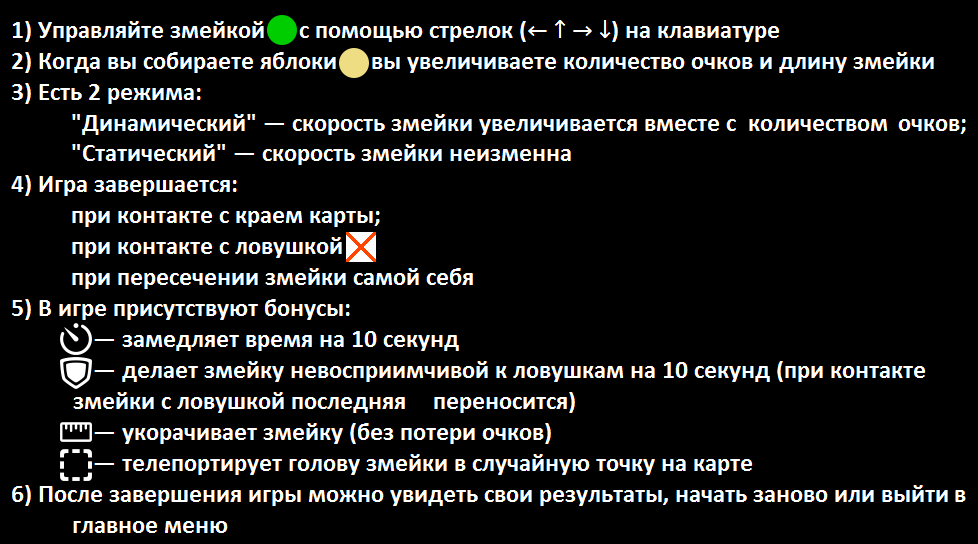
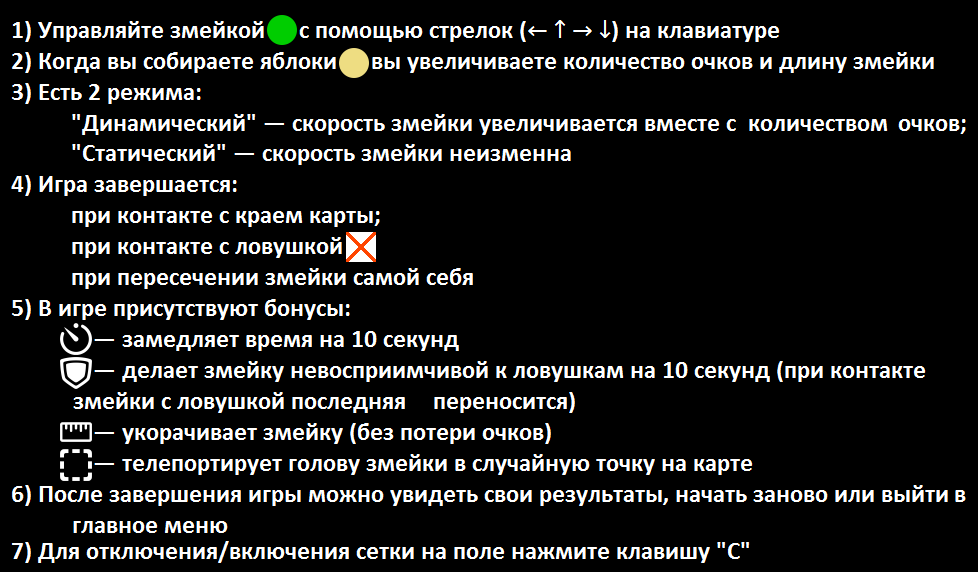
V 1.1

Changed region(s): [[0.0, 0.0312, 1.0, 1.0]]

diff --git a/ssp.py b/ssp.py
@@ -1,16 +1,28 @@
 from random import randint
 
-def moves(): #ход игрока и компьютера
+def moves():  # Ход игрока и компьютера
 	global compMove, playerMove, res
+
 	compMove = randint(0, 2)
-	inp = input("Компьютер сделал свой ход. Сделайте и вы (введите 'камень'/'ножницы'/'бумага') ").lower()
-	while not (inp in ["камень", "ножницы", "бумага"]): #проверка на корректность ввода
-		inp = input("Неправильный ввод. Повторите пожалуйста (введите 'камень'/'ножницы'/'бумага') ").lower()
+	st = "Компьютер сделал свой ход. Сделайте и вы (введите 'К'/'Н'/'Б') "
+	inp = input(st).lower()
+
+	flag = True
+	st = "Неправильный ввод. Повторите пожалуйста (введите 'К'/'Н'/'Б') "
+	while True:  # Проверка на корректность ввода
+		for i in answers.keys():
+			if inp in answers[i] and i != "да":
+				inp = i
+				flag = False
+		if not flag: break
+		inp = input(st).lower()
+
 	playerMove = playerVal.index(inp)
 	res = ""
 
-def findWinner(): #поиск победителя
+def findWinner():  # Поиск победителя
 	global res, compPoints, playerPoints
+
 	if playerMove == compMove:
 		playerPoints += 1
 		res = "очко игроку"
@@ -20,24 +32,46 @@ def findWinner(): #поиск победителя
 		compPoints += 1
 		res = "очко компьютеру"
 
-def checkEndGame(): #проверка на окончание игры
+def checkEndGame():  # Проверка на окончание игры
 	global compPoints, playerPoints, inGame
+
 	if compPoints == 3:
 		print("победил компьютер")
 		compPoints = playerPoints = 0
-		inGame = input("начать заново? (да/нет) ").lower() in ["да", "д", "y", "yes"]
+		inGame = input("начать заново? (д/н) ").lower() in answers["да"]
 	elif playerPoints == 3:
 		print("победил игрок")
 		compPoints = playerPoints = 0
-		inGame = input("начать заново? (да/нет) ").lower() in ["да", "д", "y", "yes"]
+		inGame = input("начать заново? (д/н) ").lower() in answers["да"]
 	else:
 		print(res)
 
-compPoints = 0 #очки компьютера
-playerPoints = 0 #очки игрока
+def rules():
+	f = open("rules.txt", "r")
+	rules = f.readline()
+	rules += f.readline()
+	print(rules)
+
+def drawRules():
+	ans = input("не хотите ли вы ознакомиться с правилами игры? (д/н) ")
+	ans = ans.lower()
+	isDraw = ans in answers["да"]
+	if isDraw:
+		rules()
+
+compPoints = 0  # Очки компьютера
+playerPoints = 0  # Очки игрока
 compVal = ["камень", "ножницы", "бумага"]
 playerVal = ["бумага", "камень", "ножницы"]
 inGame = True
+answers = {"камень": ["к", "r", "камень"],
+	"ножницы": ["н", "y", "ножницы"],
+	"бумага": ["б", ",", "<", "бумага"],
+	"да": ["да", "д", "l"]
+}
+
+drawRules()
+
 while inGame:
 	moves()
 	findWinner()

diff --git a/main.py b/main.py
@@ -31,14 +31,15 @@ def drawSnake(): #отрисовка змейки
 			outline=snake.color, fill=snake.color)
 
 def onKeyPressed(event):  # Отслеживание нажатий клавиш
+	global isCells
 	code = event.keycode
 	newSpeedX = 0
 	newSpeedY = 0
 
 	if code == 112:
 		help()
-	elif code == 116:
-		death()
+	elif code == 67: # Переключение отображения сетки
+		isCells = not isCells
 	elif code == 38 and snake.drc != "bottom":  # Вверх
 		snake.newDrc = "top"
 		newSpeedY = -1
@@ -171,7 +172,7 @@ def loop():
 
 	# Отрисовка элементов
 	drawBackground()
-	createMap()
+	if isCells: createMap()
 	drawApples()
 	drawBonuses()
 	drawSnake()
@@ -219,7 +220,7 @@ def start(mod, event):  #З апуск игры
 
 def beforeGame():  # Обнуление переменных
 	global points, pasCells, snake, startTime, items, inGame
-	global startBgAnim, background
+	global startBgAnim, background, isCells
 
 	background = "background.png"
 	startTime = time.time()
@@ -228,6 +229,7 @@ def beforeGame():  # Обнуление переменных
 			Const.WINDOW_H//(2*Const.CELL_SIZE), Const.START_SPEED)
 	items = i.Items(Const.APPLES_COUNT, Const.TRAPS_COUNT,
 			Const.BONUSES_COUNT, snake)
+	isCells = True
 	inGame = True
 	points = 0
 	pasCells = 0

diff --git a/RuleWindow.py b/RuleWindow.py
@@ -4,7 +4,7 @@ class RuleWindow(Toplevel):  # Окно с правилами игры
     def __init__(self, parent):
         super().__init__(parent)
 
-        self.geometry('978x544')
+        self.geometry('978x572')
         self.title("Правила игры")
         self.resizable(width=False, height=False)
 

diff --git a/EndGameWindow.py b/EndGameWindow.py
@@ -26,9 +26,6 @@ class EndGameWindow(Toplevel):
 
         self.newGame = restart
         self.openMenu = toMenu
-
-    def none(self):
-        return
         
     def restart(self):
         self.newGame()
